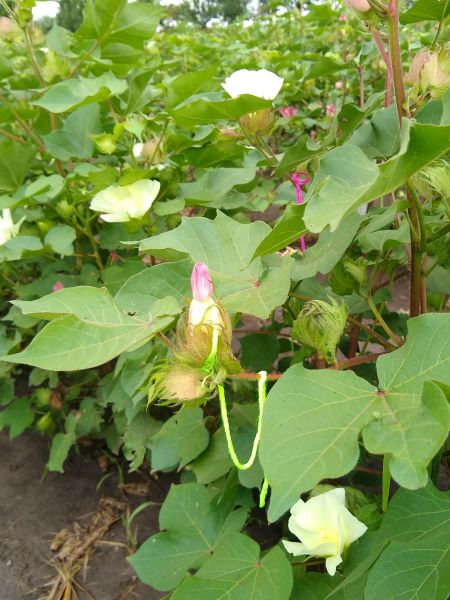
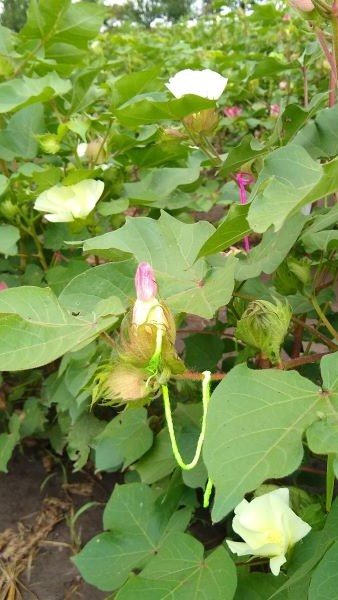
cambio tamaño de imagen

diff --git a/tematicas.html b/tematicas.html
@@ -134,7 +134,7 @@
             <h2 class="featurette-heading fw-normal lh-1">Mejoramiento genético</h2>
             <p class="lead">Some great placeholder content for the first featurette here. Imagine some exciting prose here.</p>
           </div>
-          <div class="col-auto col-md-5">
+          <div class="col-md-5">
             <img src="img/mejoramiento.jpg" alt="">
           </div>
         </div>
